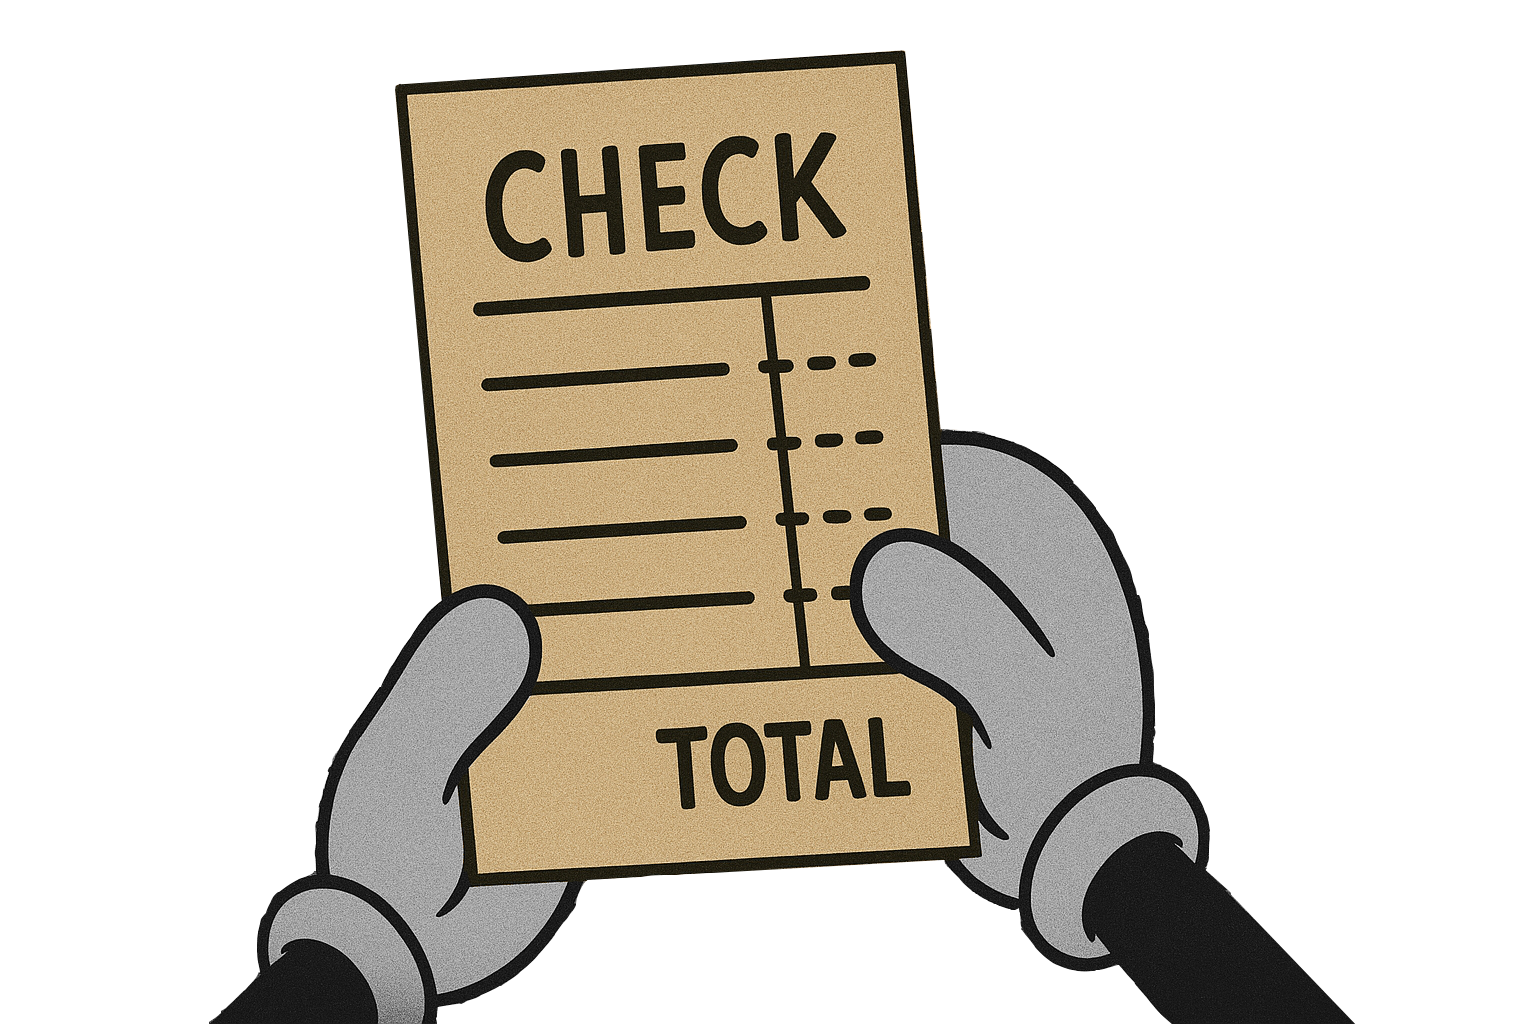
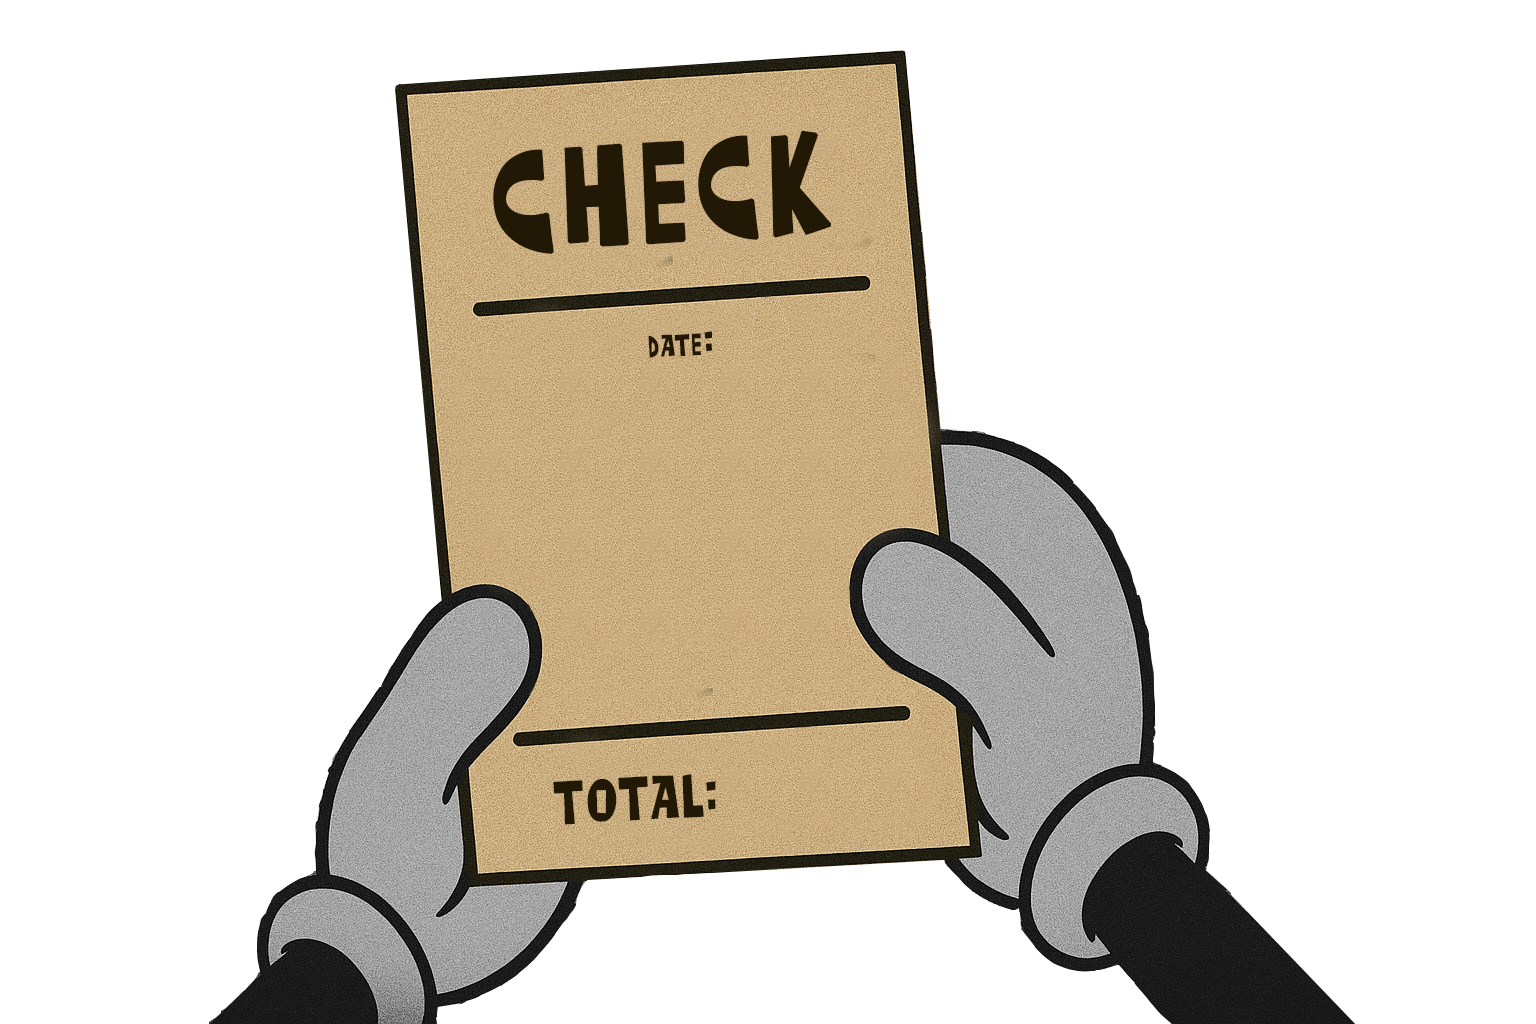
계산서 내용 추가

Changed region(s): [[0.3125, 0.2812, 0.5938, 0.8125], [0.3125, 0.125, 0.5625, 0.2812]]

diff --git a/js/app.js b/js/app.js
@@ -1,9 +1,22 @@
+// endpoints
+const endpoint = "https://bartender-api-674630912636.asia-northeast3.run.app";
+const getLatestRecordUrl = endpoint + "/record/latest"
 
-// elements
+// elements - effect
 const shakeElements = document.getElementsByClassName("shake");
 const flickerContainer = document.getElementById("flicker-container");
 const tvFlicker = document.getElementById("tv-flicker");
 const checkContainer = document.getElementById("ui-check-container");
+
+// elements - record
+const recordContentContainerElement = document.getElementById("ui-check-content-container");
+const recordDateTextElement = document.getElementById("ui-check-content-date");
+const recordItemElements = document.getElementsByClassName("ui-check-content-item");
+const recordItemElementContents = [...recordItemElements].map(item => ({
+  icon: item.getElementsByClassName("ui-check-content-item-icon")[0],
+  text: item.getElementsByClassName("ui-check-content-item-text")[0],
+}));
+const recordTotalTextElement = document.getElementById("ui-check-content-total");
 
 // animation values
 let lastTime = 0;
@@ -12,8 +25,87 @@ const backgroundFlickerIntensity = 0.015;
 const backgroundShakeIntensity = 1;
 const tvFlickerIntensity = 0.2;
 
-const onCheckClick = () => {
-  checkContainer.classList.toggle("active");
+// task item constants
+const machugiKey = "machugi"
+const machugiImageUrl = "/img/icon_machugi.png"
+const stickmanKey = "stickman"
+const stickmanImageUrl = "/img/icon_stickman.png"
+
+const onCheckClick = async () => {
+  const onOutsideClick = (e) => {
+    if (!recordContentContainerElement.contains(e.target)) {
+      onCheckClick();
+      document.removeEventListener("click", onOutsideClick);
+    }
+  }
+
+  const isActive = checkContainer.classList.toggle("active");
+
+  if (!isActive) {
+    return;
+  }
+
+  const response = await fetch(getLatestRecordUrl);
+
+  document.addEventListener("click", onOutsideClick);
+
+  if (!response.ok) {
+    return;
+  }
+
+  const data = await response.json();
+  const record = data.record;
+  const splitDate = record.date.split("-");
+  const recordItems = record.items.reduce((acc, cur) => {
+    const {itemId, startTime, endTime} = cur;
+    const duration = endTime - startTime;
+
+    if (!acc[itemId]) {
+      acc[itemId] = 0;
+    }
+
+    acc[itemId] += duration;
+    return acc;
+  }, {});
+  const recordItemKeys = Object.keys(recordItems);
+  let totalTime = 0;
+
+  recordDateTextElement.innerText = `${splitDate[2]}/${splitDate[1]}/${splitDate[0]}`;
+
+  for (let i = 0; i < recordItemElements.length; i++) {
+    const itemElement = recordItemElements[i];
+
+    if (i >= recordItemKeys.length) {
+      itemElement.classList.add("hidden");
+      continue;
+    }
+
+    itemElement.classList.remove("hidden");
+    const itemElementContent = recordItemElementContents[i];
+    const itemKey = recordItemKeys[i];
+    const time = recordItems[itemKey];
+
+    itemElementContent.icon.src = getImageUrl(itemKey);
+    itemElementContent.text.innerText = convertTimeToCost(time);
+    totalTime += time;
+  }
+
+  recordTotalTextElement.innerText = convertTimeToCost(totalTime);
+};
+
+const convertTimeToCost = (time) => {
+  return `€ ${Math.floor(time / 3600)},${Math.floor(time % 3600 / 60).toString().padStart(2, "0")}`
+}
+
+const getImageUrl = (key) => {
+  switch (key) {
+    case machugiKey:
+      return machugiImageUrl;
+    case stickmanKey:
+      return stickmanImageUrl;
+    default:
+      return undefined;
+  }
 }
 
 const animate = (currentTime) => {
@@ -27,11 +119,11 @@ const animate = (currentTime) => {
     tvFlicker.style.opacity = `${Math.random() * tvFlickerIntensity}`;
     for (let i = 0; i < shakeElements.length; i++) {
       const element = shakeElements[i];
-      element.style.transform = `translate(${-Math.random() * backgroundShakeIntensity}px, ${-Math.random() * backgroundShakeIntensity}px)`;
+      element.style.transform = `translate(${(Math.random() - 0.5) * backgroundShakeIntensity}px, ${(Math.random() - 0.5) * backgroundShakeIntensity}px)`;
     }
   }
 
   requestAnimationFrame(animate);
-}
+};
 
 requestAnimationFrame(animate);

diff --git a/css/style.css b/css/style.css
@@ -1,5 +1,16 @@
+@font-face {
+  font-family: "Coupon";
+  font-style: normal;
+  font-weight: 400;
+  src: url("/font/Coupon-Regular.woff2");
+}
+
 html {
   overflow: hidden;
+}
+
+span {
+  font-family: Coupon, sans-serif;
 }
 
 #canvas {
@@ -243,14 +254,89 @@ html {
   bottom: -5px;
 }
 
-#ui-check-container img {
+#ui-check-container > img {
   position: relative;
   width: 1200px;
   height: 800px;
 }
 
+#ui-check-content-container {
+  position: absolute;
+  top: 50px;
+  left: 335px;
+  width: 400px;
+  height: 630px;
+  transform: rotate(-4.5deg);
+  /*background-color: rgba(255, 0, 0, 0.5);*/
+}
+
+#ui-check-content-date {
+  position: absolute;
+  top: 209px;
+  left: 240px;
+  font-size: 20px;
+  color: #211906;
+  filter: blur(0.5px);
+}
+
+.ui-check-content-item-list {
+  position: absolute;
+  top: 250px;
+  left: 50px;
+  width: 300px;
+  height: 200px;
+  display: flex;
+  flex-direction: column;
+}
+
+.ui-check-content-item {
+  position: relative;
+  width: 300px;
+  height: 65px;
+  margin-bottom: 10px;
+}
+
+.ui-check-content-item-icon {
+  position: absolute;
+  top: 0;
+  left: 10px;
+  width: 60px;
+  height: 60px;
+  object-fit: contain;
+  opacity: 0.8;
+  filter: blur(0.5px);
+}
+
+.ui-check-content-item-text {
+  position: absolute;
+  top: 12px;
+  left: 90px;
+  width: 200px;
+  height: 40px;
+  font-size: 40px;
+  text-align: left;
+  vertical-align: middle;
+  color: #211906;
+  filter: blur(0.5px);
+}
+
+#ui-check-content-total {
+  position: absolute;
+  bottom: 35px;
+  right: 45px;
+  font-size: 44px;
+  font-weight: bolder;
+  color: #211906;
+  filter: blur(0.5px);
+
+}
+
 .shake {
   transition: transform 0.066s ease-in-out;
+}
+
+.hidden {
+  display: none;
 }
 
 #flicker-container {

diff --git a/index.html b/index.html
@@ -5,6 +5,7 @@
   <meta name="viewport" content="width=device-width, initial-scale=1">
   <title></title>
   <link rel="stylesheet" href="https://cdn.jsdelivr.net/npm/reset-css@4.0.1/reset.min.css"/>
+  <link rel="stylesheet" href="css/style.css">
 </head>
 <body>
 <div id="canvas">
@@ -43,7 +44,21 @@
   </div>
 </div>
 <div id="ui-check-container">
-  <img src="img/ui_check.png" alt="ui-check"/>
+  <img src="img/ui_check.png" alt="ui-check">
+  <div id="ui-check-content-container">
+    <span id="ui-check-content-date"></span>
+    <div class="ui-check-content-item-list">
+      <div class="ui-check-content-item hidden" id="ui-check-content-item-1">
+        <img class="ui-check-content-item-icon" src="img/icon_machugi.png" alt="item-icon"/>
+        <span class="ui-check-content-item-text"></span>
+      </div>
+      <div class="ui-check-content-item hidden" id="ui-check-content-item-2">
+        <img class="ui-check-content-item-icon" src="img/icon_machugi.png" alt="item-icon"/>
+        <span class="ui-check-content-item-text"></span>
+      </div>
+    </div>
+    <span id="ui-check-content-total"></span>
+  </div>
 </div>
 <div id="flicker-container"></div>
 <script src="js/app.js"></script>
